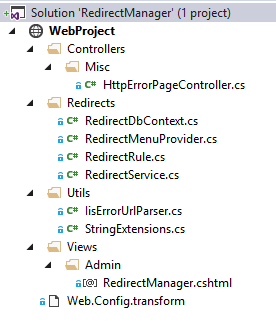
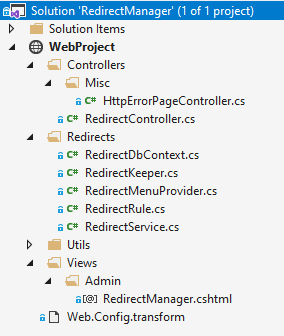
Update documentation
(cherry picked from commit 5d2876b37833b5d5adf248cbaa772f2a04d4f8be)

diff --git a/README.md b/README.md
@@ -4,7 +4,7 @@
 
 <h2>Description</h2>
 <p>It's built to be as minimalistic as possible and as an example of simple Episerver add-on. 
-It requires only 4 files for business logic and data access, 1 controller and 1 view.</p>
+It requires only 7 files for business logic and data access, 2 controllers and 1 view.</p>
 
 <h2>New 2.0 version has a bit smaller appearance and multi-site support</h2>
 <p>Preview:</p>
@@ -52,8 +52,9 @@ It requires only 4 files for business logic and data access, 1 controller and 1 
 	<li>Install Entity Framework from NuGet.<br/>
    https://www.nuget.org/packages/EntityFramework</li>
 	<li>Copy files into your project</li>
-	<li>Apply manually Web.Config transformations.</li>
-	<li>Go to www.yourproject.com/Views/Admin/RedirectManager.cshtml</li>
+	<li>Add .MapMvcAttributeRoutes() to RegisterRoutes override in Global.asax.cs</li>
+	<li>Apply manually Web.Config transformations</li>
+	<li>Go to www.yourproject.com/Admin/RedirectManager</li>
 </ol>
 <p><img src="https://raw.githubusercontent.com/huilaaja/RedirectManager/master/images/redirect-manager-1.png" /></p>
 
